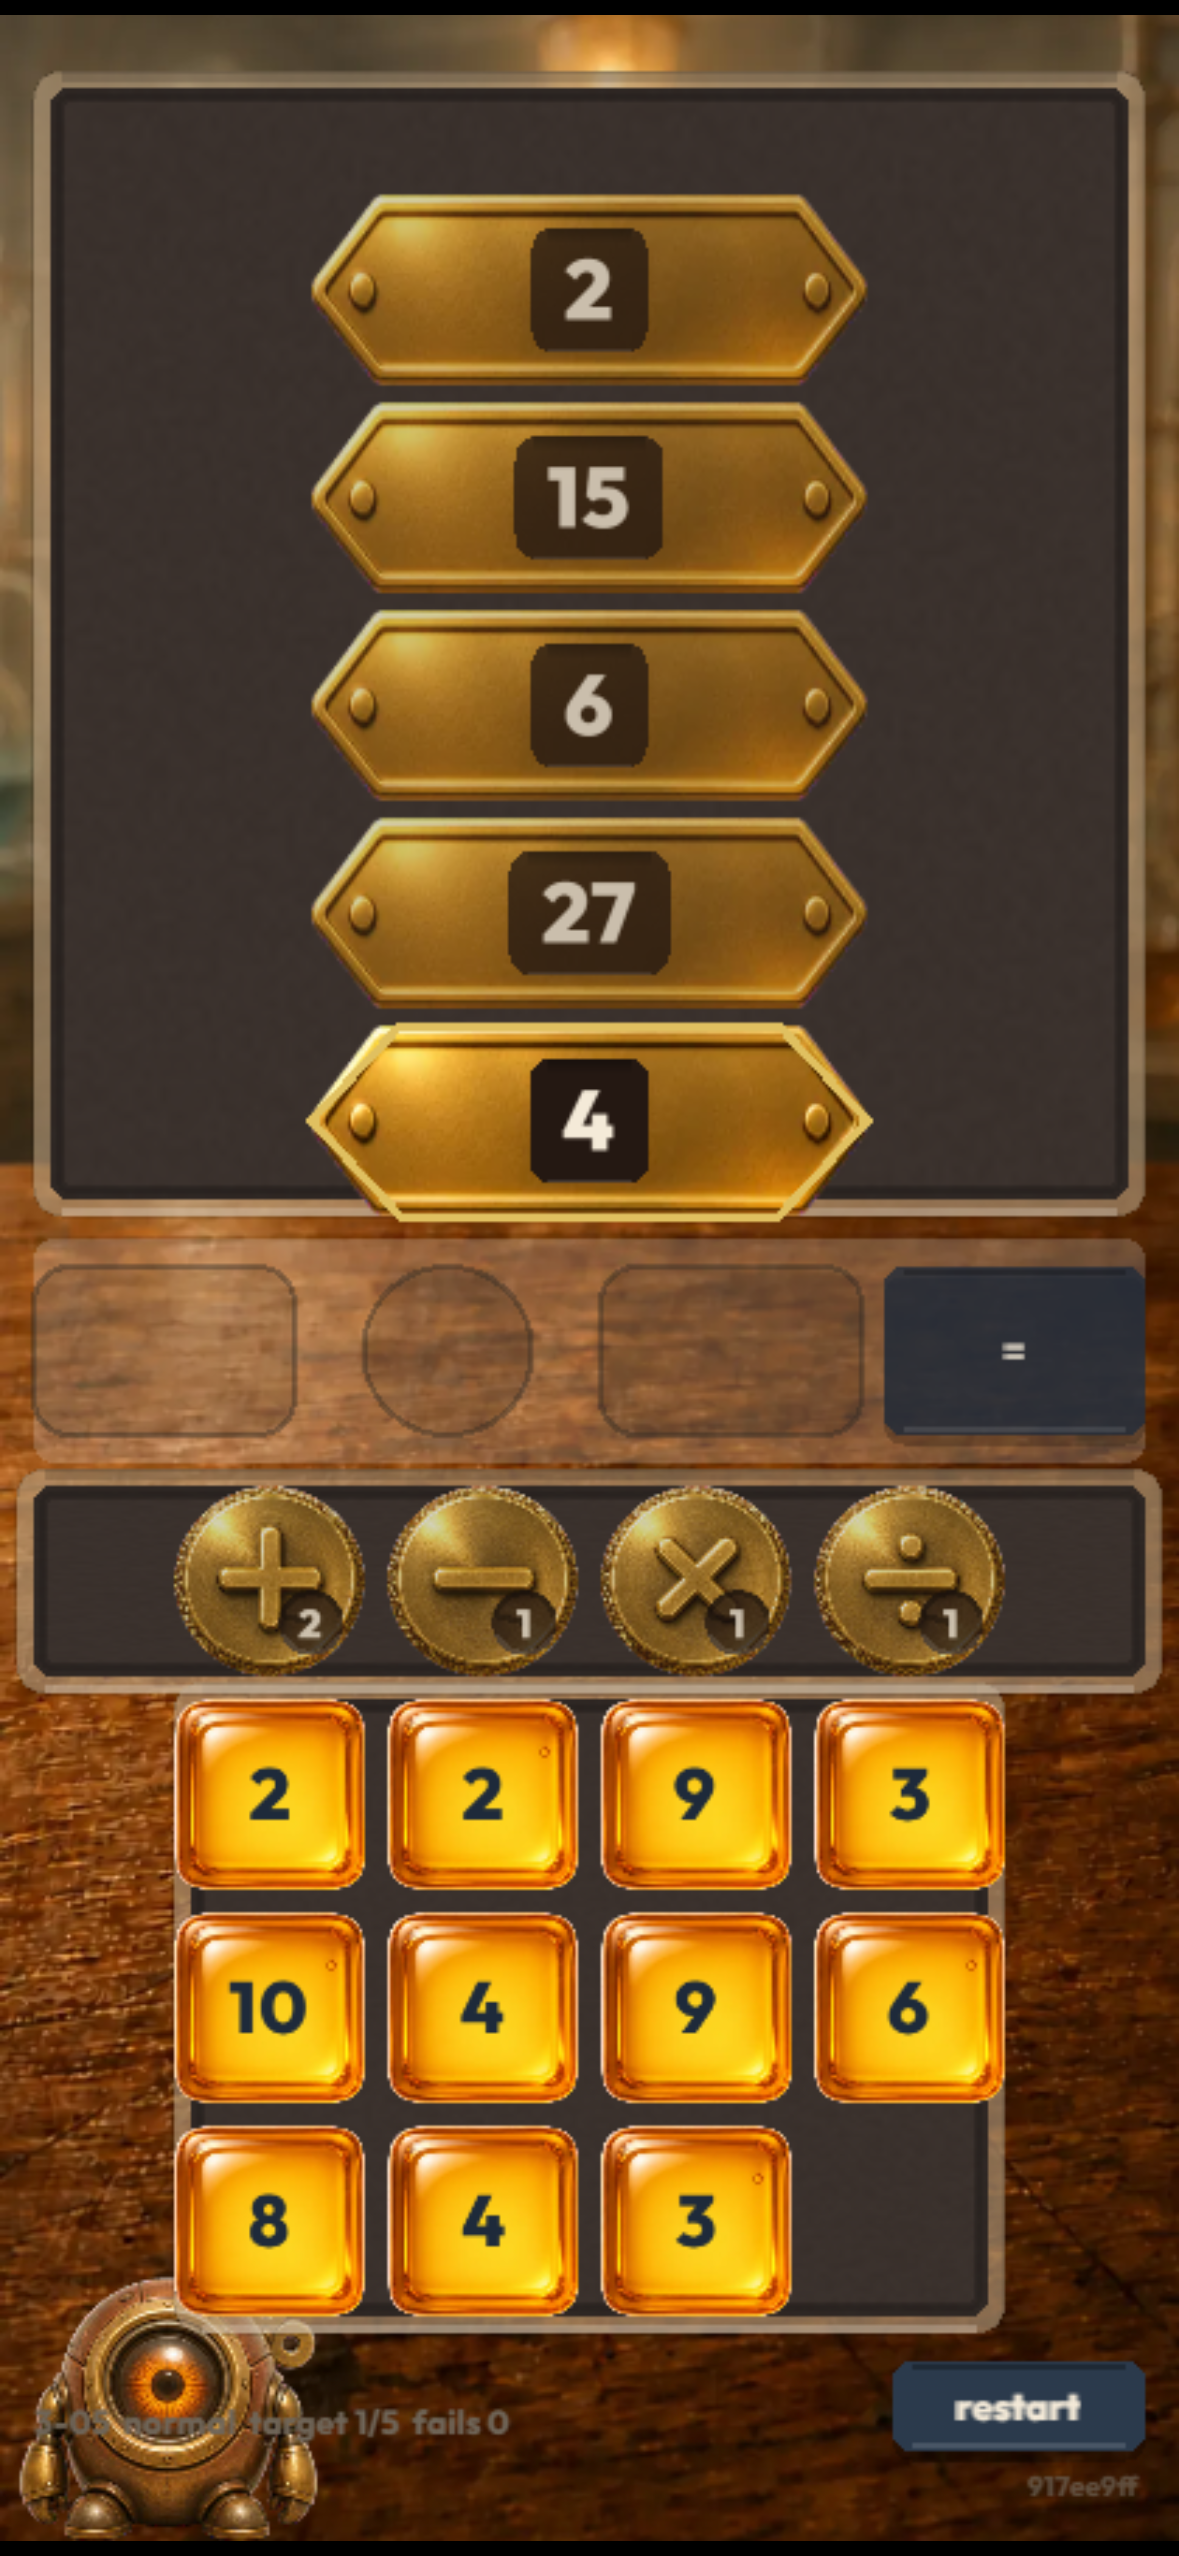
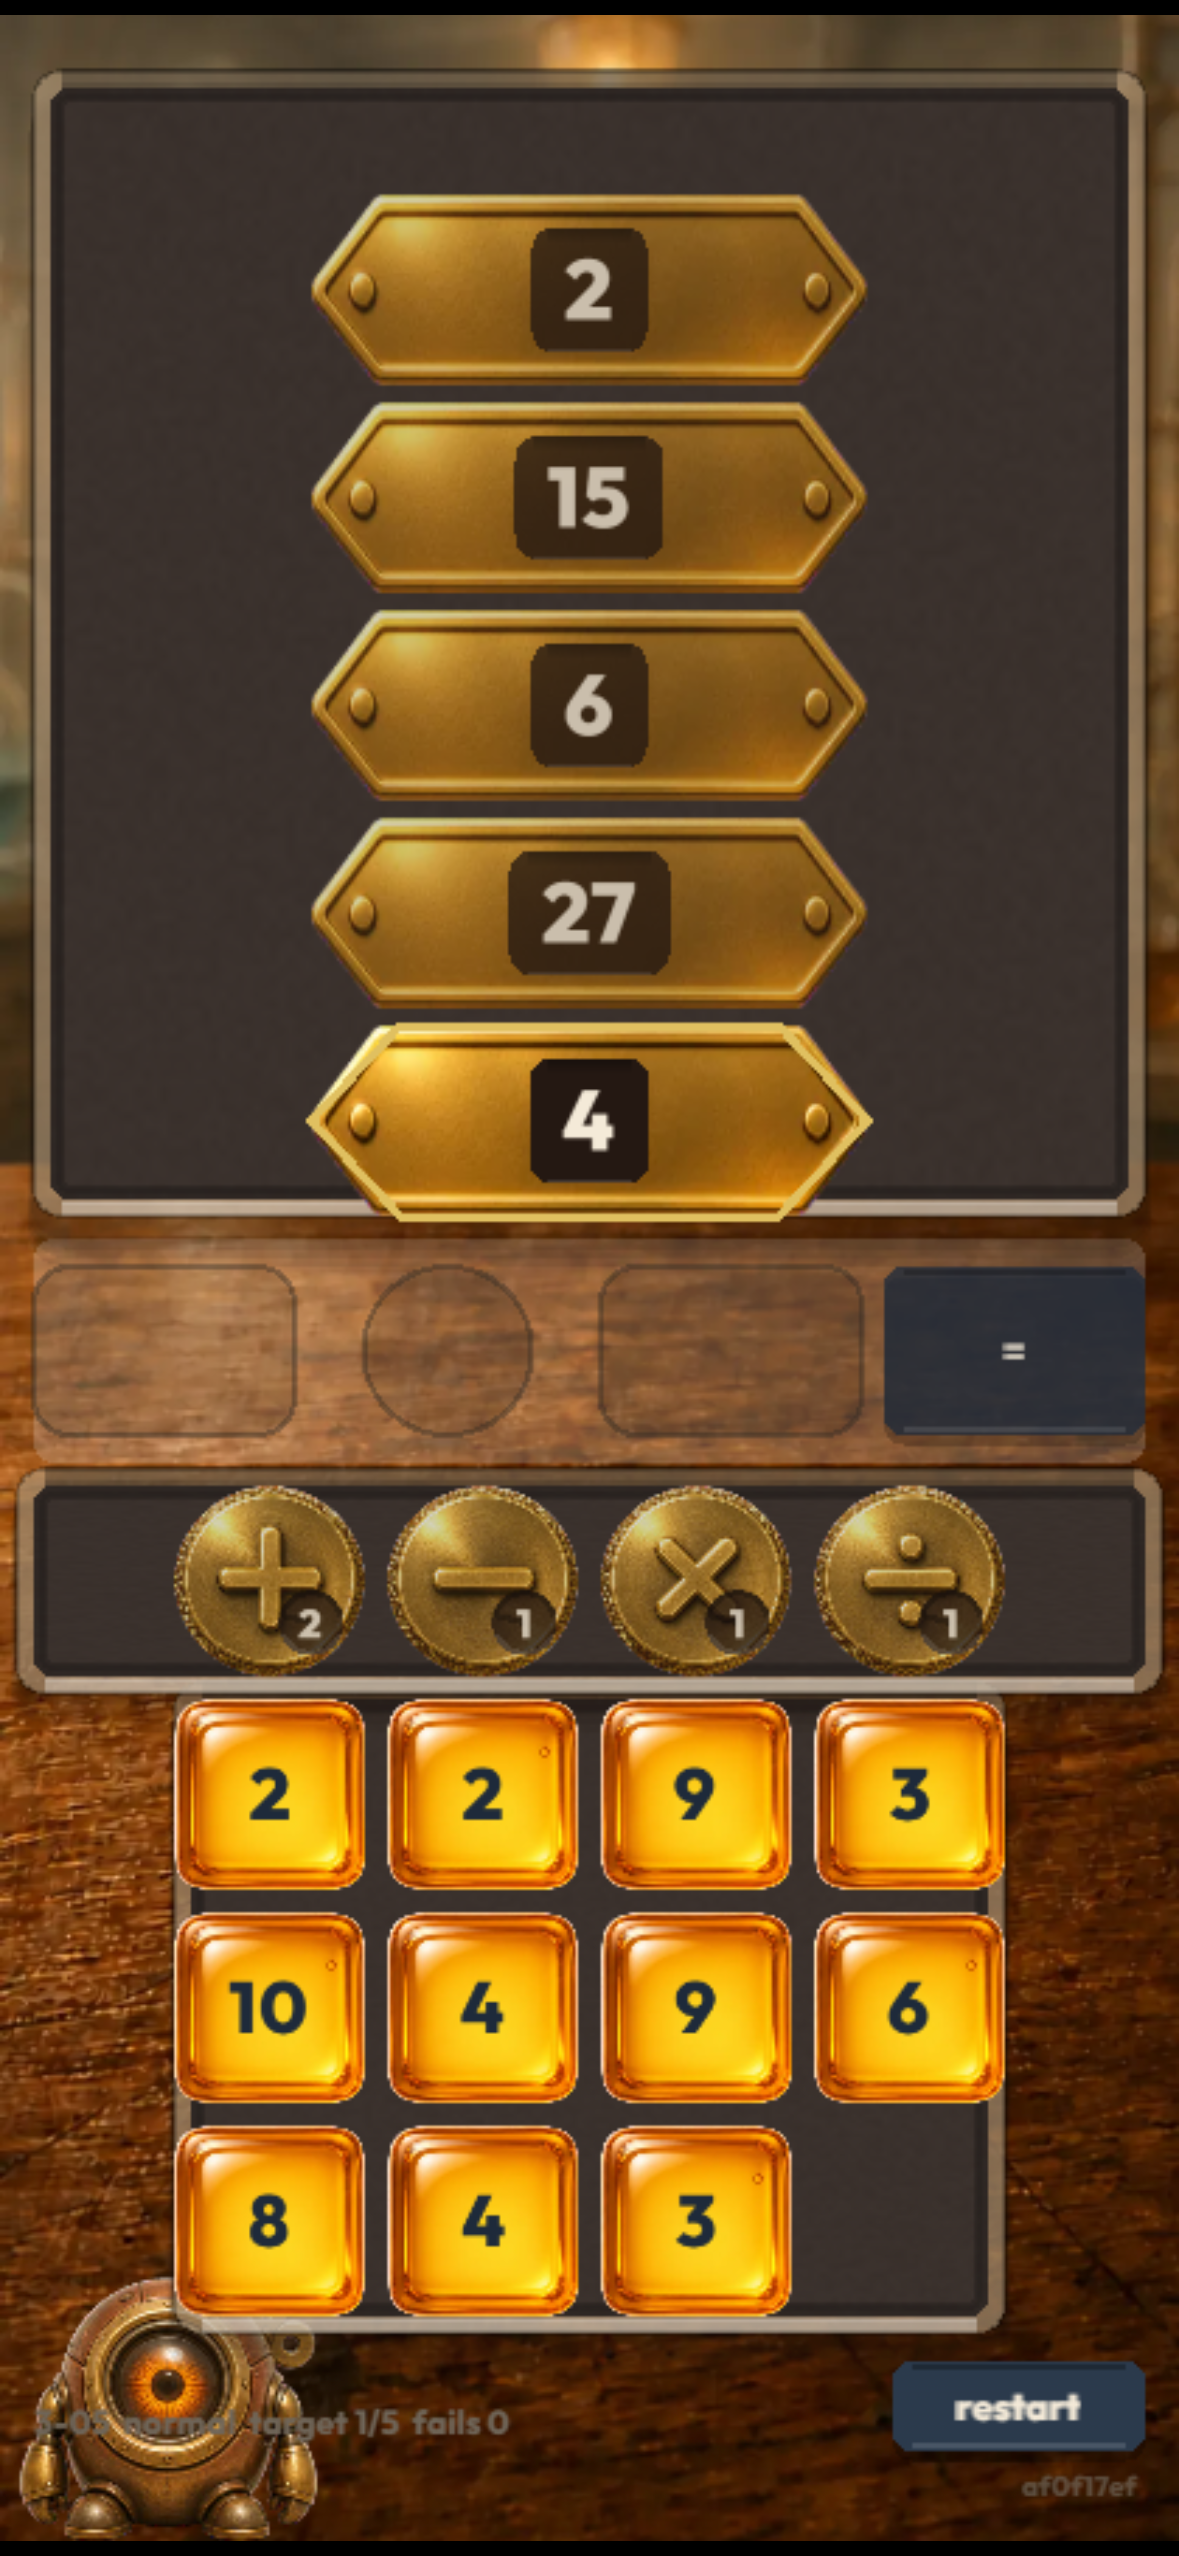
Room-aware brightness gate; retire the paper surfaces; heavier tray rim
THE GATE NOW READS THE ROOMS

It ran against `flatSurface(PALETTE.placeholderDesk)` and its own test
name said "on the placeholder desk". It never sampled a background image
in its life. Survivable only while setWorld was a stub and the game
really did paint a flat colour; the moment the rooms shipped, every
number it produced described a surface that no longer exists.

Now loads all four from `public/assets/bg` — the directory the game
serves — and asserts the dimensions match REQUIRED_SIZE first, so a
resized asset fails loudly instead of being sampled at the wrong scale.
The per-aspect loop and the furniture compositing were already correct
and are called rather than reimplemented; the felt alpha comes from the
renderer's TRAY_ALPHA, as it already did.

Result: 4 rooms x 3 aspects x 15 frames, all pass, and every row is
IDENTICAL across the four rooms. That is not a bug — it is the finding.
The lane and the pool are both felt-lined, and the felt is opaque, so no
token in the game sits on the room at all. The rooms are visible only in
the margins and between bands, where nothing is measured.

PAPER SURFACES RETIRED

`squaredPaper` was the last one, drawing graph paper for a map header
whose own comment called it "the desk". Now wooden, matching §5's
desk-in-room direction. `PALETTE.rule` and `PALETTE.placeholderDesk` are
gone; `background` remains as the clear colour behind the rooms and the
letterbox, documented as such.

TRAY RIM
[…]

diff --git a/src/art/brightness-gate.test.ts b/src/art/brightness-gate.test.ts
@@ -234,23 +234,37 @@ async function measuredNumeralGrounds(): Promise<
   );
 }
 
-function flatSurface(colour: number): ImageData {
-  const rgb = rgbFromHex(colour);
-  const pixels = new Uint8Array(REQUIRED_SIZE.width * REQUIRED_SIZE.height * 3);
-  for (let i = 0; i < pixels.length; i += 3) {
-    pixels[i] = rgb.r;
-    pixels[i + 1] = rgb.g;
-    pixels[i + 2] = rgb.b;
-  }
-  return { width: REQUIRED_SIZE.width, height: REQUIRED_SIZE.height, pixels };
-}
 
-const PLACEHOLDER_DESK = flatSurface(PALETTE.placeholderDesk);
+/**
+ * THE FOUR SHIPPED ROOMS — the surfaces the player actually sees.
+ *
+ * This gate ran against `flatSurface(PALETTE.placeholderDesk)`, and its own
+ * test name said "on the placeholder desk". It never sampled a background image
+ * in its life. That was survivable only because `setWorld` was a stub and the
+ * game really did paint a flat colour; the moment the rooms shipped, every
+ * number this file produced described a surface that no longer exists.
+ *
+ * Loaded from `public/assets/bg` — the directory the game serves, not a staging
+ * copy, for the same reason the pipeline writes there directly.
+ */
+const ROOMS = [
+  { world: 1, name: "room 1 classroom" },
+  { world: 2, name: "room 2 library" },
+  { world: 3, name: "room 3 laboratory" },
+  { world: 4, name: "room 4 observatory" },
+] as const;
+
+async function loadRoom(world: number): Promise<ImageData> {
+  const { data, info } = await sharp(`public/assets/bg/world-${world}.webp`)
+    .removeAlpha()
+    .raw()
+    .toBuffer({ resolveWithObject: true });
+  return { width: info.width, height: info.height, pixels: new Uint8Array(data) };
+}
 
 describe("background brightness gate", () => {
   it("uses the approved felt and 3:1 graphical-token bar", () => {
     expect(PALETTE.felt).toBe(0x241812);
-    expect(PALETTE.placeholderDesk).toBe(0x704a32);
     const felt = luminance(rgbFromHex(PALETTE.felt));
     expect((0.223 + 0.05) / (felt + 0.05)).toBeGreaterThanOrEqual(MIN_CONTRAST);
   });
@@ -271,35 +285,42 @@ describe("background brightness gate", () => {
     expect(failures, `glass numerals below ${MIN_TEXT_CONTRAST}:1:\n${failures.join("\n")}`).toEqual([]);
   });
 
-  it("accepts every real glass and brass frame on the placeholder desk", async () => {
+  it("accepts every real glass and brass frame on all four rooms", async () => {
     const rows: string[] = [];
     const failures: string[] = [];
+    for (const room of ROOMS) {
+    const image = await loadRoom(room.world);
+    // Worth running only against the size the game serves.
+    expect(image.width, `${room.name} width`).toBe(REQUIRED_SIZE.width);
+    expect(image.height, `${room.name} height`).toBe(REQUIRED_SIZE.height);
+    rows.push(`  ${room.name}`);
     for (const family of ART_FAMILIES) {
       const frames = await measuredFrames(family.atlas);
       expect(frames.length, `${family.name} atlas has no frames`).toBeGreaterThan(0);
       for (const frame of frames) {
         const result = checkBackground(
-          "placeholder desk #704A32",
-          PLACEHOLDER_DESK,
+          room.name,
+          image,
           [{ ...family.zone, name: frame.name, token: frame.colours }],
           family.minimum,
         );
         const worst = result.zones.reduce((a, b) => (a.ratio <= b.ratio ? a : b));
         const representative = worstCaseSpriteColour(frame.colours, worst.background);
         rows.push(
-          `  ${family.name.padEnd(16)} ${frame.name.padEnd(20)} ` +
+          `    ${family.name.padEnd(16)} ${frame.name.padEnd(20)} ` +
             `${worst.direction.padEnd(10)} ${worst.ratio.toFixed(2)}:1 ` +
             `rgb ${representative.colour.r},${representative.colour.g},${representative.colour.b}`,
         );
         if (!result.passes) {
           failures.push(
-            `${family.name} / ${frame.name}: ${worst.ratio.toFixed(2)}:1 (minimum ${family.minimum}:1)`,
+            `${room.name} / ${family.name} / ${frame.name}: ${worst.ratio.toFixed(2)}:1 (minimum ${family.minimum}:1)`,
           );
         }
       }
     }
+    }
     console.log(
-      `\nreal sprite brightness gate — placeholder desk #704A32 with felt #241812\n${rows.join("\n")}`,
+      `\nreal sprite brightness gate — four shipped rooms, every aspect\n${rows.join("\n")}`,
     );
     /*
      * Every family is judged against its OWN minimum and every one of them

diff --git a/src/renderer/tokens.ts b/src/renderer/tokens.ts
@@ -646,41 +646,6 @@ export function operatorToken(
   return token;
 }
 
-/**
- * The lane: a strip of SQUARED PAPER (§9.6).
- *
- * Furniture carries the theme rather than being a neutral panel. The white
- * veil is still doing the separation job (§9.1) — the ruling is drawn on top of
- * it, so the band reads as a piece of graph paper laid on the desk rather than
- * as a rectangle of lighter background.
- *
- * Procedural, so it costs nothing and scales with the band: the pitch is fixed
- * in design units, which means the squares stay square whatever the lane's
- * height turns out to be for a given board.
- */
-export function squaredPaper(
-  w: number,
-  h: number,
-  veil: { colour: number; alpha: number },
-): Container {
-  const panel = new Container();
-  const g = new Graphics();
-  const pitch = 22;
-
-  g.roundRect(0, 0, w, h, 8).fill({ color: veil.colour, alpha: veil.alpha });
-
-  // Ruling, drawn INSIDE the rounded corners so it never pokes out of the strip.
-  const ruled = new Graphics();
-  for (let x = pitch; x < w; x += pitch) ruled.moveTo(x, 0).lineTo(x, h);
-  for (let y = pitch; y < h; y += pitch) ruled.moveTo(0, y).lineTo(w, y);
-  ruled.stroke({ width: 1, color: PALETTE.rule, alpha: 0.16 });
-
-  const clip = new Graphics().roundRect(0, 0, w, h, 8).fill(0xffffff);
-  ruled.mask = clip;
-
-  panel.addChild(g, clip, ruled);
-  return panel;
-}
 
 /**
  * The pool: a shallow WOODEN TRAY the tiles sit in (§9.6).
@@ -700,17 +665,54 @@ export function woodenTray(w: number, h: number, colour: number, alpha: number):
   const g = new Graphics();
   const r = 10;
 
+  /*
+   * A CONTACT SHADOW UNDER THE WHOLE TRAY, drawn before it.
+   *
+   * The tray is translucent wood on a wooden desk, so LUMINANCE CANNOT
+   * SEPARATE THEM — measured at 1.32-1.78:1 against the desk median, lowest on
+   * room 3. That is not a fixable ratio: tinting the wood or darkening the room
+   * would break the token contrast the gate holds, and the two materials are
+   * supposed to be the same wood. What tells the eye it is a separate object is
+   * geometry — an edge that catches light, a wall that shadows, and the ground
+   * darkening beneath it.
+   *
+   * Stacked offsets rather than one blurred sprite: no filter, no render
+   * target, the same trick the framed panel uses.
+   */
+  const contact = new Graphics();
+  for (let i = 4; i >= 1; i--) {
+    contact
+      .roundRect(-i * 0.6, h * 0.012 + i * 1.9, w + i * 1.2, h + i * 1.4, r + i)
+      .fill({ color: 0x1a0f08, alpha: 0.1 });
+  }
+  tray.addChild(contact);
+
   g.roundRect(0, 0, w, h, r).fill({ color: colour, alpha });
   grainOver(g, (gr) => gr.roundRect(0, 0, w, h, r), 0.2);
 
-  // The near wall catches light; the far wall is in shadow.
-  g.moveTo(r, 2)
-    .lineTo(w - r, 2)
-    .stroke({ width: 4, color: 0x000000, alpha: 0.16 });
-  g.moveTo(r, h - 2)
-    .lineTo(w - r, h - 2)
-    .stroke({ width: 3, color: 0xffffff, alpha: 0.22 });
-  g.roundRect(0, 0, w, h, r).stroke({ width: 1, color: 0x000000, alpha: 0.14 });
+  /*
+   * The near wall catches light; the far wall is in shadow. Both were too
+   * timid to carry the separation on their own, which they now have to.
+   */
+  // Far wall: a deeper, wider inner shadow, falling off in two passes so the
+  // wall reads as curved rather than as a drawn line.
+  g.moveTo(r, 2.5)
+    .lineTo(w - r, 2.5)
+    .stroke({ width: 7, color: 0x000000, alpha: 0.30 });
+  g.moveTo(r, 6)
+    .lineTo(w - r, 6)
+    .stroke({ width: 5, color: 0x000000, alpha: 0.14 });
+
+  // Near wall: a brighter lit top edge, with a hairline highlight riding it.
+  g.moveTo(r, h - 2.5)
+    .lineTo(w - r, h - 2.5)
+    .stroke({ width: 5, color: 0xffffff, alpha: 0.34 });
+  g.moveTo(r, h - 5)
+    .lineTo(w - r, h - 5)
+    .stroke({ width: 1.5, color: 0xffffff, alpha: 0.16 });
+
+  // The outline carries the sides, where neither wall stroke reaches.
+  g.roundRect(0, 0, w, h, r).stroke({ width: 1.5, color: 0x000000, alpha: 0.26 });
 
   tray.addChild(g);
   return tray;

diff --git a/src/map/map-screen.ts b/src/map/map-screen.ts
@@ -3,8 +3,8 @@ import { Container, Text, TextStyle } from "pixi.js";
 import { button } from "../renderer/button.js";
 import { emblemMeter, meterWidth, star } from "../renderer/emblems.js";
 import { MAP_BANDS, Entrance } from "../renderer/entry.js";
-import { BACKDROP, DESIGN, DIM, PALETTE, TRAY_ALPHA } from "../renderer/layout.js";
-import { UI_FONT, squaredPaper, woodenTray } from "../renderer/tokens.js";
+import { DESIGN, DIM, PALETTE, TRAY_ALPHA } from "../renderer/layout.js";
+import { UI_FONT, woodenTray } from "../renderer/tokens.js";
 import type { MapLevel, MapView } from "./model.js";
 
 /**
@@ -174,8 +174,15 @@ export class MapScreen {
 
     const width = DESIGN.width - PAD * 2;
 
-    // --- header: the desk, with the totals that were crowding the board ---
-    const header = squaredPaper(width, 58, BACKDROP);
+    /*
+     * --- header: the desk, with the totals that were crowding the board ---
+     *
+     * Wooden, not squared paper. The header's own name has always said "the
+     * desk" while it drew graph paper — a §9.1 classroom surface that
+     * ART_DIRECTION §10 superseded with the desk-in-room scenes. It was the
+     * last paper surface left in the game.
+     */
+    const header = woodenTray(width, 58, PALETTE.tray, TRAY_ALPHA);
     header.position.set(PAD, PAD);
     this.root.addChild(this.entry(header, MAP_BANDS.header));
 

diff --git a/src/renderer/layout.ts b/src/renderer/layout.ts
@@ -10,10 +10,13 @@ export const DESIGN = { width: 420, height: 900 } as const;
 
 export const PALETTE = {
   /**
-   * Temporary desk surface until the four desk-in-room scenes arrive. The old
-   * paper worlds are superseded art and must not be used as a contrast surface.
+   * The clear colour behind the room scenes.
+   *
+   * No longer a "placeholder desk": the four desk-in-room backgrounds ship, so
+   * this is only what shows if one fails to load, plus the letterbox. The
+   * `placeholderDesk` alias is gone — it named a surface the game no longer
+   * draws, and the brightness gate must measure the ROOM, never this.
    */
-  placeholderDesk: 0x704a32,
   background: 0x704a32,
 
   /*
@@ -75,8 +78,6 @@ export const PALETTE = {
   felt: 0x241812,
   /** Ink navy is reserved for numerals drawn over the glass sprite. */
   glassNumeral: 0x1e2a3a,
-  /** Ruling on the lane's squared paper. */
-  rule: 0x6f6558,
 
   /**
    * KEPT, and outside the §9.6 palette. Flagged rather than removed: §9.4's
